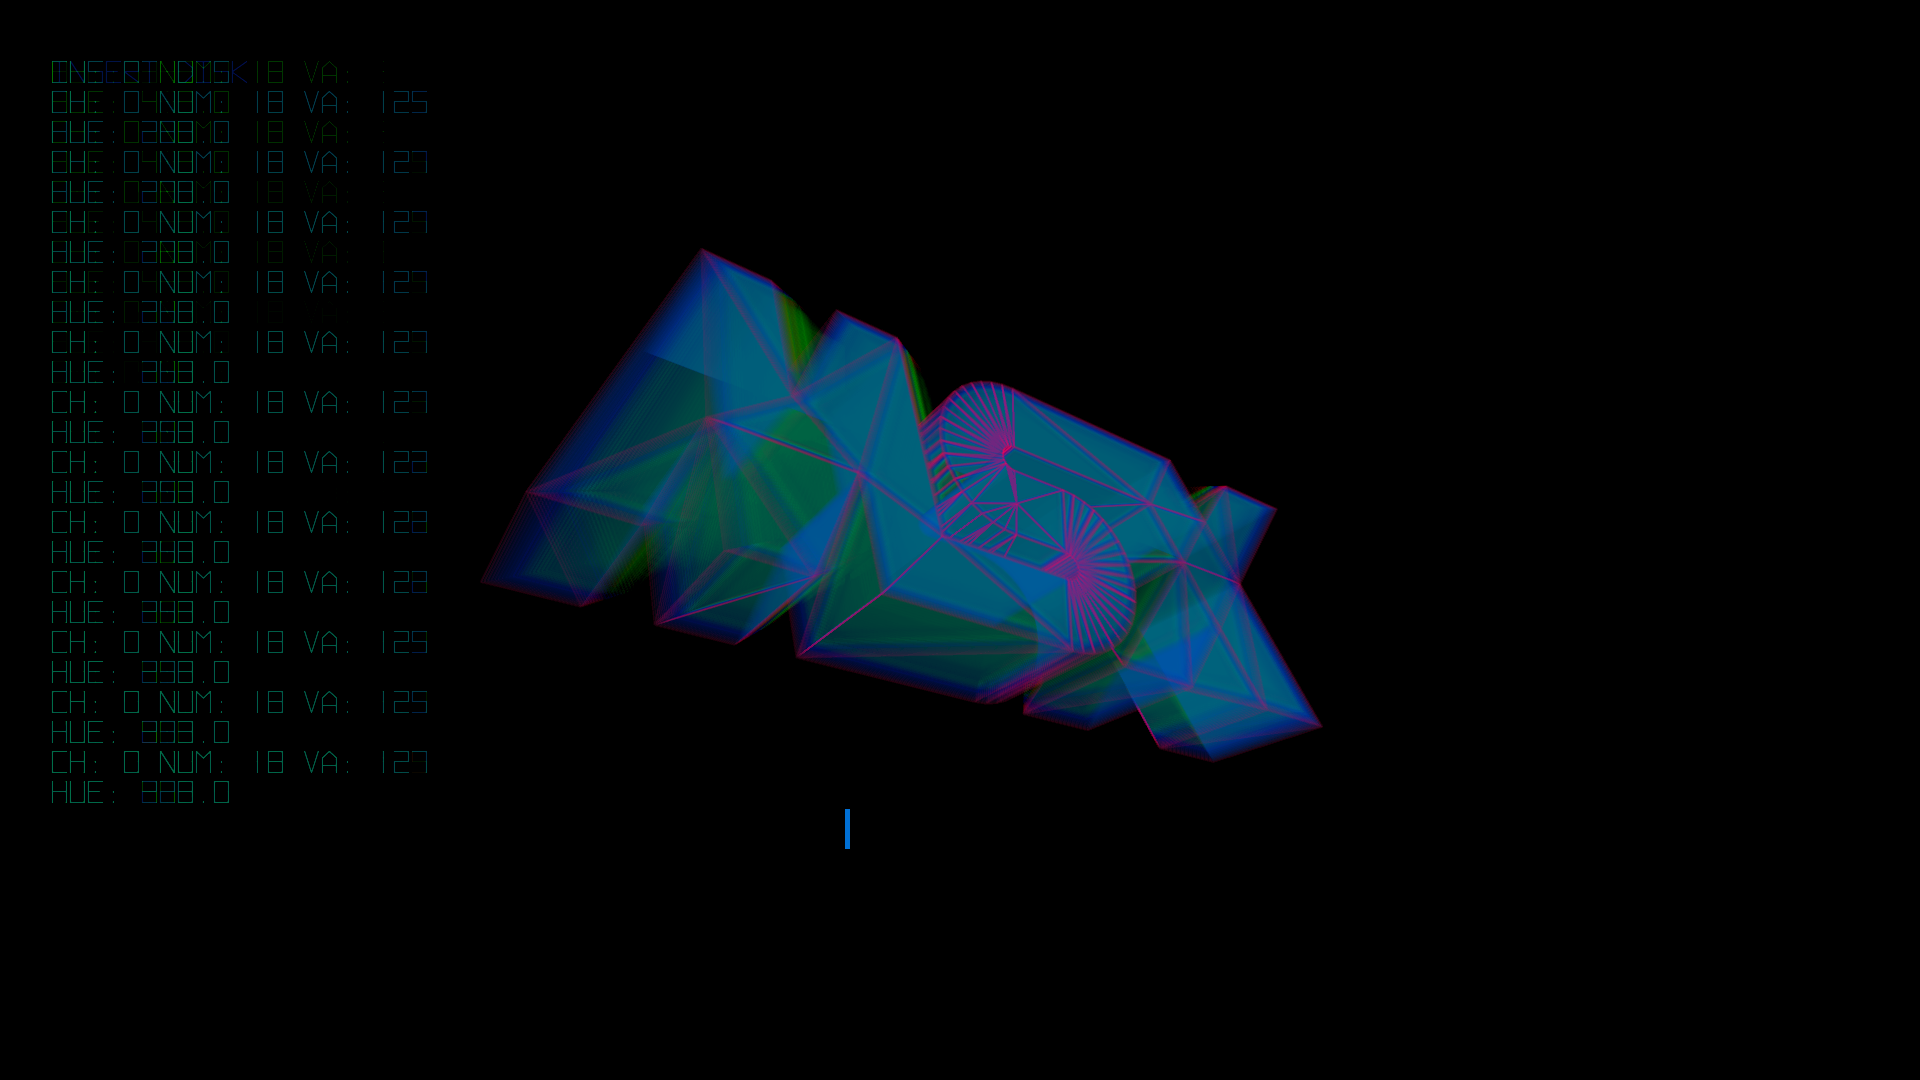
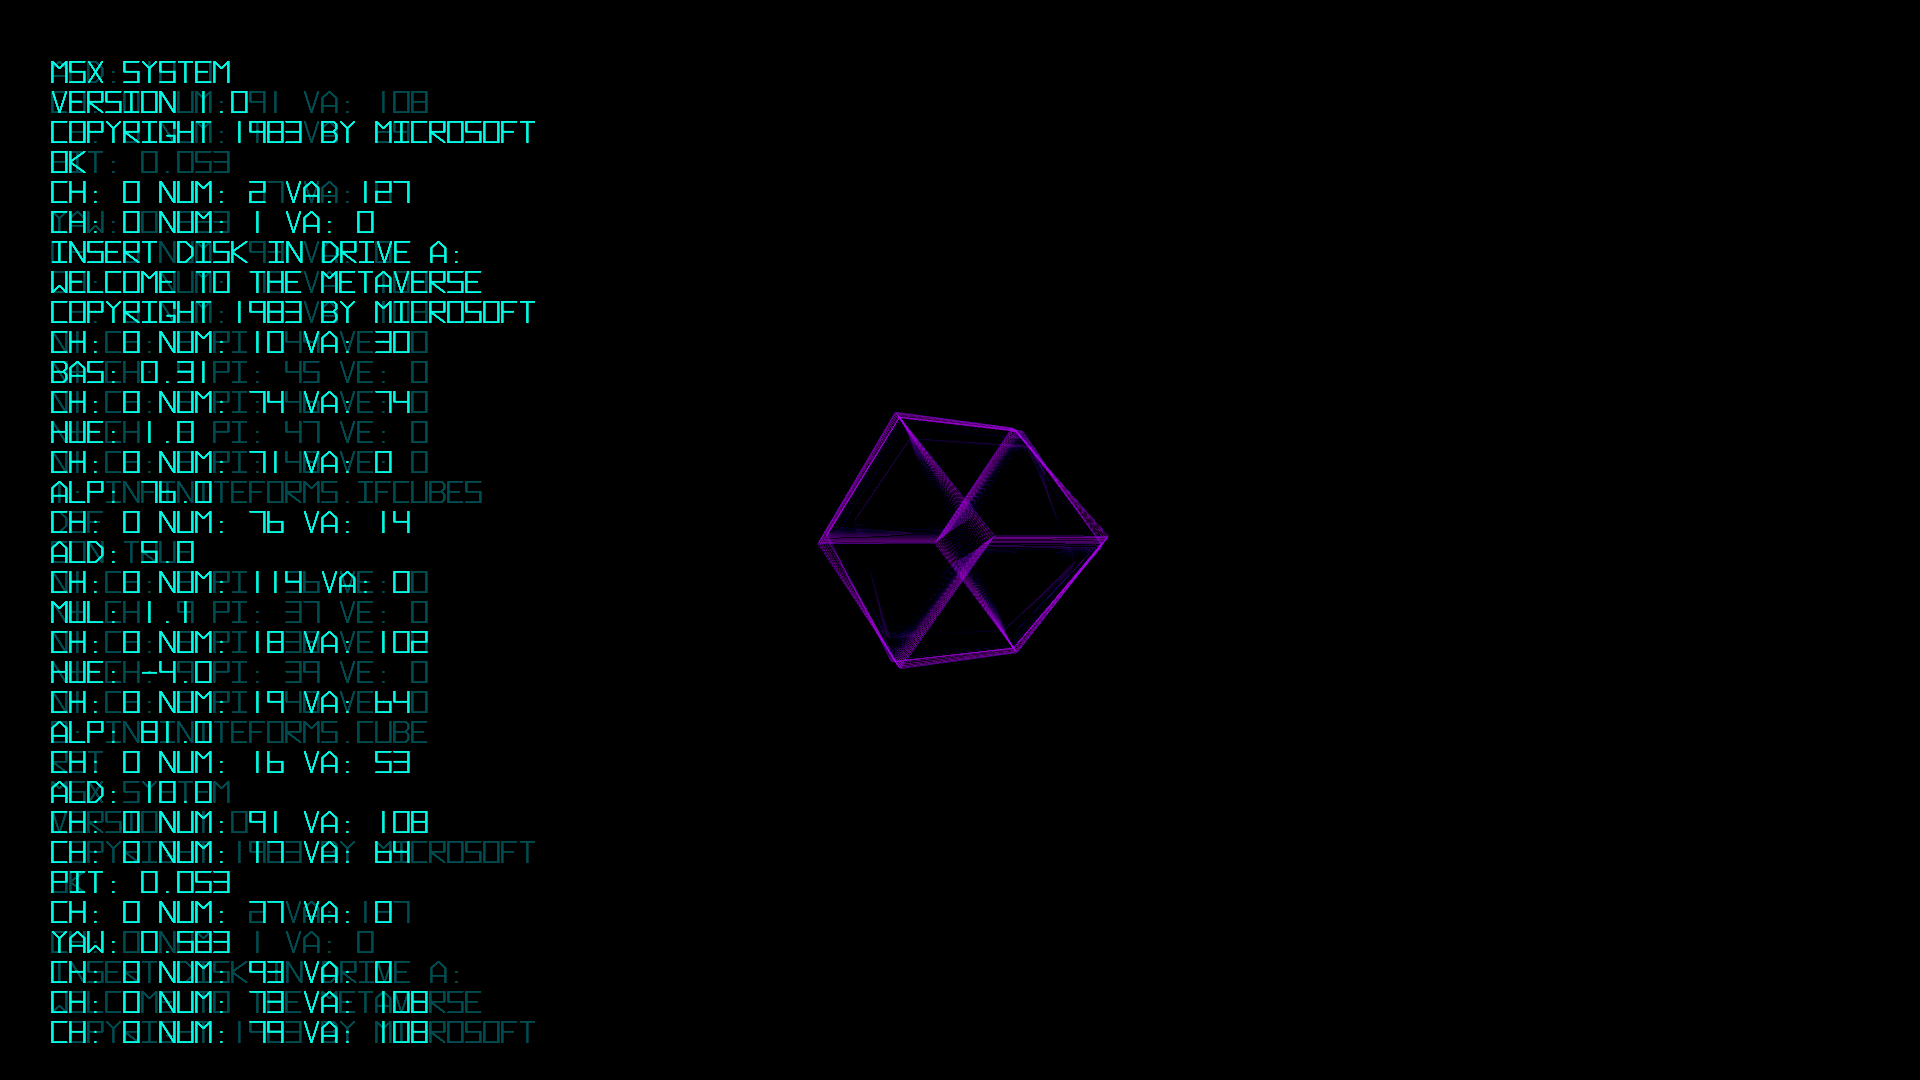
messages

Changed region(s): [[0.0312, 0.0611, 0.6875, 0.9778]]

diff --git a/java/src/ie/tudublin/AudioGarden.java b/java/src/ie/tudublin/AudioGarden.java
@@ -38,8 +38,8 @@ public class AudioGarden extends ie.tudublin.visual.Visual implements MidiListen
     float ald = 20;
 
     public void settings() {
-        fullScreen(P3D, 2);
-        //size(1000, 1000, P3D);
+        fullScreen(P3D, 3);
+        //size(1280, 720, P3D);
     }
 
     PShape sphere;
@@ -54,7 +54,16 @@ public class AudioGarden extends ie.tudublin.visual.Visual implements MidiListen
 
     public static void println(String o)
     {
-        instance.console.append(o + "\n");
+        if (o.length() > 3 && o.charAt(3) == ':' && !controlMessages)
+        {
+            return;
+        }
+        print(o + "\n");
+    }
+
+    public static void print(String o)
+    {
+        instance.console.append(o);
         int len = instance.console.length(); 
         if (len > 2000)
         {
@@ -67,6 +76,7 @@ public class AudioGarden extends ie.tudublin.visual.Visual implements MidiListen
         }            
         System.out.println(o);
     }
+
 
     // public void sphere(float size)
     // {
@@ -97,11 +107,27 @@ public class AudioGarden extends ie.tudublin.visual.Visual implements MidiListen
 
         cp5 = new ControlP5(this);
 
+        int daniMidi = -1;
+        for (int i = 0 ; i < MidiBus.availableInputs().length ; i ++)
+        {
+            String curr = MidiBus.availableInputs()[i];
+            if (curr.equals("iamdani"))
+            {
+                daniMidi = i;
+                println("Joystick selected on port: " + daniMidi);
+            }
+        }
+        
+        if (daniMidi == -1)
+        {
+            println("Insert joystick");
+        }
+        
         MidiBus.list();
-        myBus = new MidiBus(this, 1, 4);
+        myBus = new MidiBus(this, daniMidi, 0);
         // myBus.addMidiListener(this);
         startListening();
-
+ 
         // eye = loadShape("eyeball.obj");
         // grave = loadShape("gravestone.obj");
         // texture = loadImage("gravestone.mtl");
@@ -195,7 +221,6 @@ public class AudioGarden extends ie.tudublin.visual.Visual implements MidiListen
                   ;
   
     }
-
     float consoleSize = 0;
     float originalTargetSize = 400;
     
@@ -214,7 +239,7 @@ public class AudioGarden extends ie.tudublin.visual.Visual implements MidiListen
         mul = 1.0f;
         bas = 0.3f;
         
-        spe = 1.0f;
+        // spe = 1.0f;
         hue = 0;
         
         alp = 75;
@@ -242,7 +267,7 @@ public class AudioGarden extends ie.tudublin.visual.Visual implements MidiListen
                     takeScreenshot = true;            
                     return;
                 }
-                println("N+ CH: " + channel +  " PI: " + pitch + " VE: " + velocity); 
+                if (midiMessages) println("N+ CH: " + channel +  " PI: " + pitch + " VE: " + velocity); 
                 int newVisual = pitch % visions.size();
                 change(newVisual);
                 return;
@@ -254,7 +279,7 @@ public class AudioGarden extends ie.tudublin.visual.Visual implements MidiListen
                     takeScreenshot = true;            
                     return;
                 }
-                println("N+ CH: " + channel +  " PI: " + pitch + " VE: " + velocity); 
+                if (midiMessages) println("N+ CH: " + channel +  " PI: " + pitch + " VE: " + velocity); 
                 int newVisual = (int) random(0, visions.size());
                 change(newVisual);
                 return;
@@ -315,7 +340,7 @@ public class AudioGarden extends ie.tudublin.visual.Visual implements MidiListen
             return;
         }
         
-        println("N+ CH: " + channel +  " PI: " + pitch + " VE: " + velocity); 
+        if (midiMessages) println("N+ CH: " + channel +  " PI: " + pitch + " VE: " + velocity); 
         
                
         
@@ -324,7 +349,7 @@ public class AudioGarden extends ie.tudublin.visual.Visual implements MidiListen
 
     public void noteOff(int channel, int pitch, int velocity) {
         // Receive a noteOff
-        println("N- CH: " + channel, " PI: " + pitch + " VE: " + velocity);  
+        if (midiMessages) println("N- CH: " + channel, " PI: " + pitch + " VE: " + velocity);  
     }
 
     public void change(int into) 
@@ -345,7 +370,7 @@ public class AudioGarden extends ie.tudublin.visual.Visual implements MidiListen
     
     public void controllerChange(int channel, int number, int value) {
         // Receive a controllerChange
-        println("CH: " + channel + " NUM: " + number + " VA: " + value);  
+        if (midiMessages) println("CH: " + channel + " NUM: " + number + " VA: " + value + " ");  
 
         boolean clockWise = (value < 100);
 
@@ -376,7 +401,7 @@ public class AudioGarden extends ie.tudublin.visual.Visual implements MidiListen
         }
 
         if (number == 76) {
-            ald = min(max(clockWise ? ald + 1f : ald - 1f, 0), 50);
+            ald = min(max(clockWise ? ald + 0.1f : ald - 0.1f, 0), 50);
             println("ALD: " + ald);
         }
 
@@ -415,7 +440,8 @@ public class AudioGarden extends ie.tudublin.visual.Visual implements MidiListen
         //     change(newVisual);        
     }
 
-    
+    boolean midiMessages = false;
+    static boolean controlMessages = false;
 
     public void keyPressed() {
 
@@ -466,6 +492,17 @@ public class AudioGarden extends ie.tudublin.visual.Visual implements MidiListen
         {
             println("CTRL");
             mode = Modes.Ctrl;
+        }
+
+        if (key == 'm')
+        {
+            midiMessages = ! midiMessages;
+            println("MIDI: " + (midiMessages ? "on" : "off"));
+        }
+        if (key == 'o')
+        {
+            controlMessages = ! controlMessages;
+            println("CONTROL " + (controlMessages ? "on" : "off"));
         }
         
         if (key == 'p')

diff --git a/java/src/infiniteforms/Cube.java b/java/src/infiniteforms/Cube.java
@@ -11,7 +11,7 @@ public class Cube extends Poly
   
     float smoothedBoxSize = 0;
     float angle = 0;
-    float weight = 5;
+    float weight = 1;
     float size = 50;
   
     boolean useAmplitude = true;
@@ -38,7 +38,7 @@ public class Cube extends Poly
         //v.rotateZ(v.PI + v.yaw);
         //v.translate(v.width / 2, v.height / 2, 0); 
         v.strokeWeight(2);
-        float c = v.hueShift((v.map(v.getSmoothedAmplitude(), 0, 1, 0, 255) + colorOffset) % 255);        
+        float c = v.hueShift((colorOffset) % 255);        
         v.stroke(c, 255, 255, v.alp);
         v.noFill();
 

diff --git a/java/src/infiniteforms/IFCube.java b/java/src/infiniteforms/IFCube.java
@@ -9,7 +9,7 @@ public class IFCube
   
   float smoothedBoxSize = 0;
   float angle = 0;
-  float weight = 5;
+  float weight = 2;
   float size = 50;
   
   boolean useAmplitude = true;
@@ -26,8 +26,8 @@ public class IFCube
   void render()
   {
     v.pushMatrix();
-    v.strokeWeight(2);    
-    float c = v.map(v.getSmoothedAmplitude(), 0, 1, 0, 255);
+    v.strokeWeight(1);    
+    float c = v.map(colorOffset, 0, 1, 0, 255);
     c = v.hueShift(c + colorOffset);
     v.stroke(c, 255, 255, v.alp);
     v.translate(position.x, position.y, position.z);       

diff --git a/java/src/ie/tudublin/DANI.java b/java/src/ie/tudublin/DANI.java
@@ -197,7 +197,7 @@ public class DANI extends Poly {
                 }
             }       
         }  
-        int interV = (int) (11 - (v.spe * 5));
+        int interV = v.max(1, (int) (11 - (v.spe * 5)));
         if (v.frameCount % interV == 0)
         {
             try
